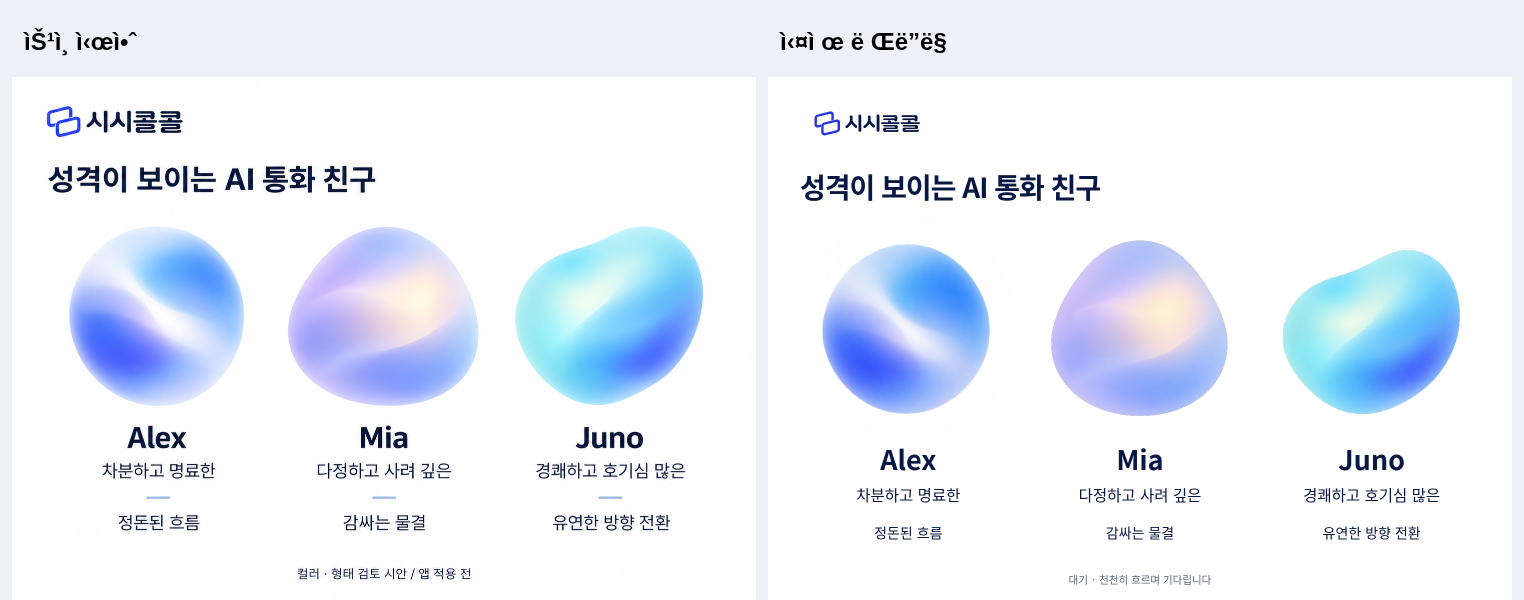
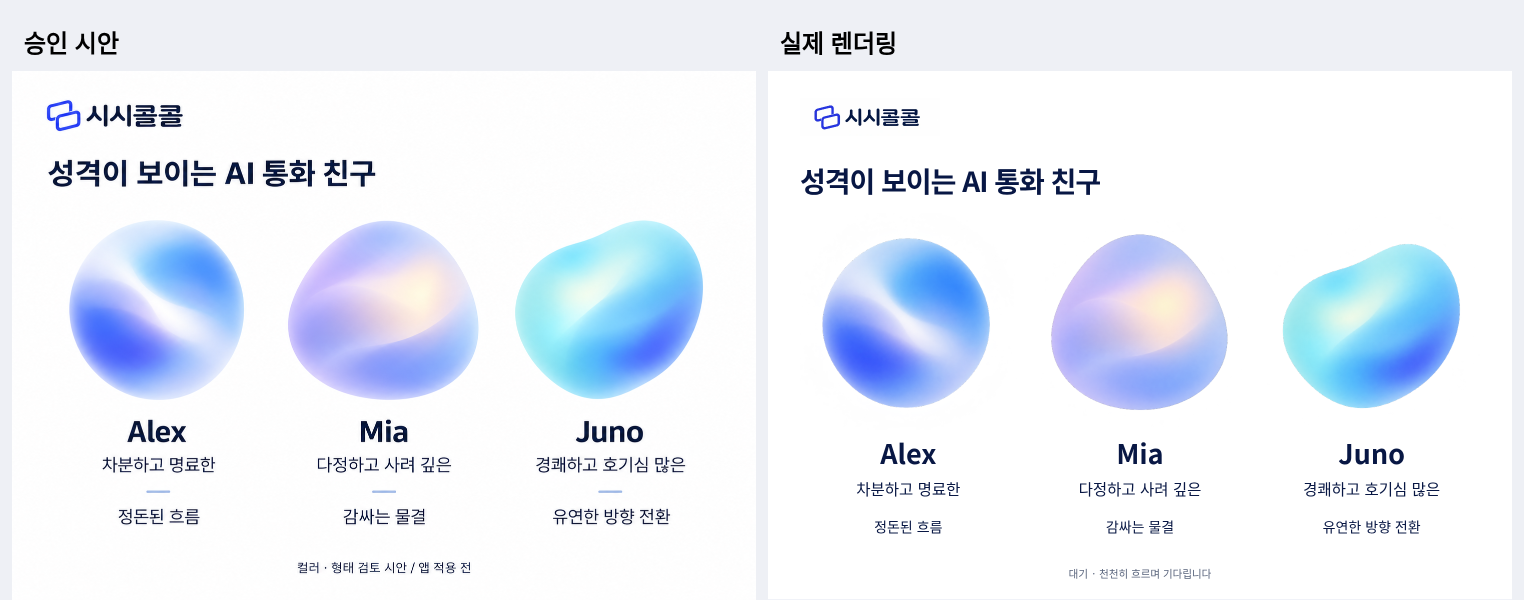
Record published companion release and research provenance

diff --git a/docs/design/research-and-decisions.md b/docs/design/research-and-decisions.md
@@ -15,8 +15,8 @@
 | [Google Design — Illustrating the Gemini App](https://design.google/library/gemini-ai-visual-design) | 제작팀의 공식 해설. 밀도와 확산, 내부 활동, 방향성이 있는 모션, Google의 형태 언어를 설명한다. | 그라데이션을 에너지와 방향 전달에 사용. 내부 움직임에 의미를 부여하고, 한 동작의 시작과 끝을 연결. | Gemini의 공식 설명이며 시시콜콜의 효과를 검증한 연구가 아니다. 특정 오브나 상태별 수치를 그대로 복제하지 않았다. |
 | [Gemini Live 공식 소개·데모](https://gemini.google/overview/gemini-live/) | 공개 제품 영상의 실제 대화 표시를 확인했다. 단일 형태 안에서 푸른 빛의 분포가 바뀐다. | AI의 존재감과 대화 컨트롤을 함께 배치하고, 작고 연속적인 시각 피드백을 유지. | 홍보 영상만으로 정확한 오디오-모션 매핑이나 내부 알고리즘은 확인할 수 없다. |
 | [ChatGPT 공식 App Store 소개](https://apps.apple.com/us/app/chatgpt/id6448311069) | 공식 앱 소개 이미지의 음성 대화 표시를 확인했다. | 대화 경험 안에서 간결한 AI 존재감을 제공하는 제품 사례. | 정지 이미지 기준이다. ChatGPT의 정확한 단계별 모션·수치나 렌더러를 분석했다고 주장하지 않는다. 공식 문서·영상 접근 일부는 차단됐다. |
-| [VoiceOrbs 상태 코드](https://github.com/amunozdev/voiceorbs/blob/main/src/registry/lib/orb-state.ts) | 외부 오픈소스 구현. 상태 가중치, 활성 진입과 진정의 다른 보간 속도, 음성 신호 연결을 확인했다. | 상태와 음성 강약을 분리하고, 상태가 바뀔 때 연속적으로 보간. | ChatGPT나 Gemini의 공식 제작 자료 또는 역공학 검증이 아니다. 이 프로젝트의 기본값은 제품 보편 법칙이 아니다. |
-| [Murmur 상태 설계](https://github.com/krispuckett/murmur/blob/main/Sources/Murmur/MurmurState.swift) | 외부 SwiftUI/Metal 구현과 설계 주석. 같은 존재가 상태를 표현하고 위상이 뛰지 않도록 시간을 누적한다. | 성격·재질과 대화 상태를 분리. 듣기에 음성이 반응할 여유를 남기고, 응답은 생각의 연속으로 설계. | 독립 제작자의 설계·장치 평가이며 Google/OpenAI 공식 분석은 아니다. |
+| [VoiceOrbs 상태 코드](https://github.com/amunozdev/voiceorbs/blob/8b2799917734f52c9293a489e08982ca5b0187e9/src/registry/lib/orb-state.ts) | 외부 오픈소스 구현. 상태 가중치, 활성 진입과 진정의 다른 보간 속도, 음성 신호 연결을 확인했다. | 상태와 음성 강약을 분리하고, 상태가 바뀔 때 연속적으로 보간. | ChatGPT나 Gemini의 공식 제작 자료 또는 역공학 검증이 아니다. 이 프로젝트의 기본값은 제품 보편 법칙이 아니다. |
+| [Murmur 상태 설계](https://github.com/krispuckett/murmur/blob/84642c44862856cfbd092d429e613cd889dde289/Sources/Murmur/MurmurState.swift) | 외부 SwiftUI/Metal 구현과 설계 주석. 같은 존재가 상태를 표현하고 위상이 뛰지 않도록 시간을 누적한다. | 성격·재질과 대화 상태를 분리. 듣기에 음성이 반응할 여유를 남기고, 응답은 생각의 연속으로 설계. | 독립 제작자의 설계·장치 평가이며 Google/OpenAI 공식 분석은 아니다. |
 | [OpenAI Liquid Glass 스킬](../../.agents/skills/liquid-glass/SKILL.md) / [보존된 컬러 지침](../../.agents/skills/impeccable-colorize/SKILL.md) | 기존 프로젝트의 SwiftUI/macOS 스킬과 Impeccable colorize 지침을 읽었다. | 글래스는 플로팅 내비게이션·컨트롤에 제한. 색을 행동·선택·상태 등의 역할로 관리하고 대비를 확인. | 웹의 CSS 표현은 네이티브 Liquid Glass 렌더링과 같지 않다. 컬러 지침은 시시콜콜의 브랜드 연구가 아니라 설계 방법이다. |
 
 초기 ElevenLabs Orb·LiveKit Aura는 구현 가능성을 살펴본 자료다. 제품의 동작 의도를 충분히 설명하지 못해 최종 시각 근거의 중심에서는 제외했다. 셰이더 갤러리·메시 그라데이션·연기 링 역시 대화 패턴과의 거리가 커서 최종 캐릭터로 채택하지 않았다.
@@ -88,3 +88,18 @@
 ## 다음 변경 시 지킬 기준
 
 새 시안은 캐릭터·상태·음성 강약 중 무엇을 바꾸는지 구분해 검토한다. 모션 수치는 이 구현의 조정값이며 ChatGPT/Gemini에서 측정한 수치로 인용하지 않는다. 새 자산이나 동작을 적용하기 전에 같은 캐릭터의 대기/듣기/생각/말하기를 동시 비교하고, 작은 화면·동작 줄이기·GPU 대체 표시를 함께 확인한다. SMTP 전달, 승인 계정의 실제 기기 음성 통화, DB 재해 복구 등 운영 과제는 별도 검증으로 남긴다.
+
+## 배포와 검증 기록
+
+- 서비스: https://chungchung234.github.io/English/
+- 배포된 앱 커밋: [`a57790d`](https://github.com/chungchung234/English/commit/a57790d1b75e2197f8213ca056e9ee729fe84203)
+- [배포 워크플로 성공](https://github.com/chungchung234/English/actions/runs/42664184362): 타입 검사, 서버/DB 테스트 70개, 합성 기억 평가 10개, 실제 이미지 GPU·음성 반응 검사, 모바일·기억 관리·20분 자동 종료 검사, 백엔드·Pages 게시, 비승인 계정 차단 검증.
[1 lines of base64/hex data omitted]
+- 공개 파일 확인 시각: 2026-11-10 02:26:15 KST.
+- [최종 Alex 홈](approved-characters/deployed/home-alex.png), [Mia 홈](approved-characters/deployed/home-mia.png), [Juno 홈](approved-characters/deployed/home-juno.png), [상대 선택](approved-characters/deployed/companions.png), [기억 관리](approved-characters/deployed/memory.png), [작은 화면](approved-characters/deployed/compact.png).
+
+최종 화면은 게시된 HTML을 그대로 읽어 같은 CSP 하에서 렌더링했다. 보호된 화면의 데이터는 브라우저에서 차단·대체한 합성 응답을 사용했으며, 실제 이용자의 계정·기록에는 접근하지 않았다. 390×844에서 지난 표현 행이 하단 탭 위에 완전히 보이고, 320×568에서 통화 시작 버튼이 하단 탭 위에 있으며 화면 너비가 넘치지 않는 것을 확인했다. 페이지 실행 오류는 없었다.
+
+배포 후 실제 Supabase 검증은 기존 승인 정책을 유지한 채 비승인 계정의 데이터·AI·기억 관리 접근 거부를 확인했다. 테스트를 위해 승인 목록을 확장하지 않았으므로 이 릴리스의 승인 계정 실기기 음성 통화가 통과했다고 주장하지 않는다. SMTP·재해 복구도 이번 디자인 배포 검증 범위가 아니다.
+
+외부 코드 참고는 확인한 커밋으로 고정했으며 [출처 버전 목록](research-sources.json)에 보존했다.

diff --git a/README.md b/README.md
@@ -2,7 +2,7 @@
 
 휴대폰·PC 브라우저에서 링크로 접속하는 가벼운 영어 말하기 서비스입니다. 이메일 로그인, 음성 역할극, 대화 자동 저장, 개인별 장기 이력, 통화·주간 분석을 제공합니다. 특정 AI 채팅 앱 설치나 사용자별 API 설정은 필요하지 않습니다. 정적 웹 호스팅과 관리형 Supabase를 사용하므로 상시 서버를 직접 운영하지 않습니다.
 
-**현재 상태:** [서비스 링크](https://chungchung234.github.io/English/)에서 로그인 화면에 접근할 수 있으며, 보호된 데이터·AI 기능은 승인된 계정만 이용합니다. 승인된 캐릭터·단계별 모션과 [연구·디자인 결정](docs/design/research-and-decisions.md)을 반영했습니다. 최신 게시 결과는 [배포 워크플로](https://github.com/chungchung234/English/actions/workflows/pages.yml)를 확인하세요.
+**현재 상태:** [서비스 링크](https://chungchung234.github.io/English/)에서 로그인 화면에 접근할 수 있으며, 보호된 데이터·AI 기능은 승인된 계정만 이용합니다. 승인된 캐릭터·단계별 모션과 [연구·디자인 결정](docs/design/research-and-decisions.md)을 반영했습니다. [최종 배포 검사](https://github.com/chungchung234/English/actions/runs/42664184362)가 통과했고 [게시 화면·검증 범위](docs/design/research-and-decisions.md#배포와-검증-기록)를 기록했습니다.
 
 [이전 공개 모드 검증](https://github.com/chungchung234/English/actions/runs/42639444223)에서는 세 캐릭터의 실제 WebRTC·전사·응답·기억 분리가 통과했습니다. 이는 현재 승인 계정의 실제 기기 재검증과는 별도 기록입니다. 현재의 비승인 테스트 계정은 접근 차단을 확인하며, 검증 목적으로 승인 목록을 바꾸지 않습니다. 이메일 전달과 DB 재해 복구는 아래 운영 과제로 남습니다.
 

diff --git a/design-qa.md b/design-qa.md
@@ -59,3 +59,12 @@ final result: passed
 
 Applied the user-selected empty overlapping speech-bubble logo with the redesigned 콜콜 glyphs and tightened wordmark spacing. `docs/design/approved-logo.png` preserves the approved full-size source; the header uses a whitespace-trimmed WebP export. Replaced the prior negative-offset image crop with a centered, aspect-preserving 170 × 48 px container. The 390 px mobile capture shows the full symbol and wordmark without clipping. `npm run build` and `npm run test:browser` passed (voice responses simulated).
 
+
+## 최종 공개 배포 대조
+
+- [배포 및 접근 정책 검사](https://github.com/chungchung234/English/actions/runs/42664184362) success. 코드 `a57790d`.
+- 원격 최신 변경의 로고·기억 제어·승인 정책·20분 제한을 병합한 뒤 전체 검사를 다시 실행함.
+- P2: 20분 안내가 추가되면서 일반 모바일 화면의 지난 표현 행이 하단 탭에 겹쳤음. 홈 상단·버튼·안내·지난 표현 간격만 조정하고, 행 전체가 탭 위에 오는 회귀 검사를 추가함.
+- 수정 후 [Alex 홈](docs/design/approved-characters/deployed/home-alex.png), [상대 선택](docs/design/approved-characters/deployed/companions.png), [기억 관리](docs/design/approved-characters/deployed/memory.png), [compact](docs/design/approved-characters/deployed/compact.png)에서 최신 로고·캐릭터·추가 기능의 통합을 확인함. 캐릭터 원본 및 렌더러가 게시 파일과 일치함.
+- 게시 HTML을 HTTPS로 읽고 hashed CSP를 유지해 렌더링했으며 보호 API는 합성 응답으로 대체함. 실제 사용자 데이터 접근 없음. 실제 승인 계정의 음성 통화 재검증과 구분함. [세부 검증](docs/design/approved-characters/deployed/verification.json).
+- final result: passed
